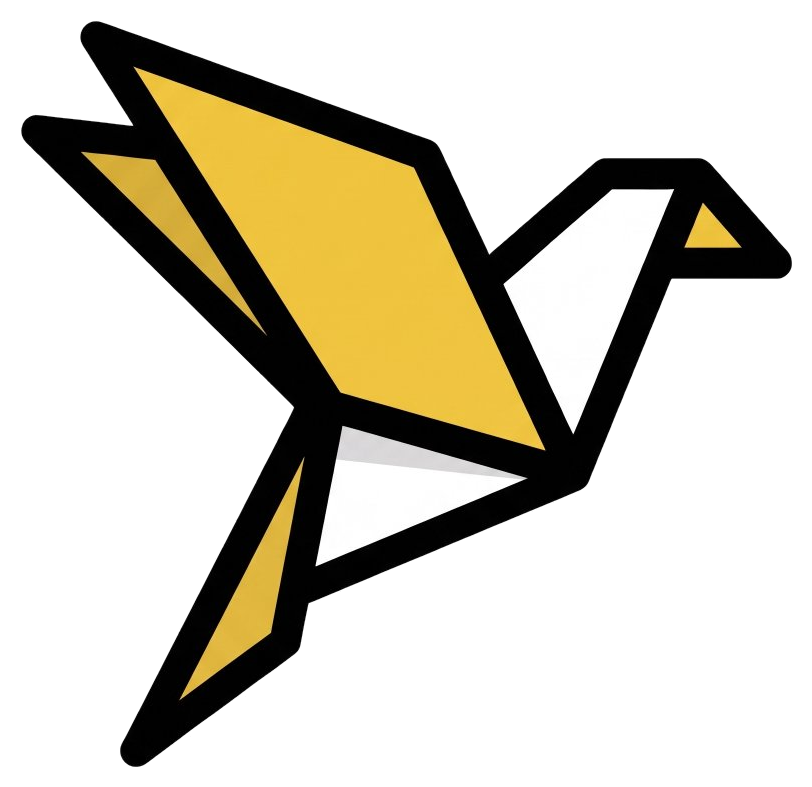
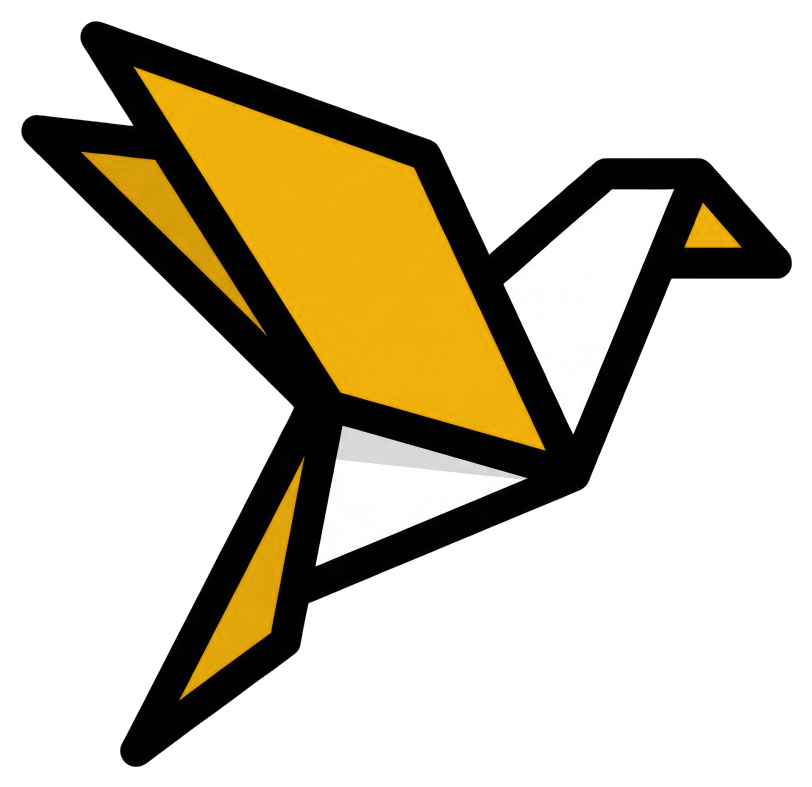
feat(brand): scale bird to span across Auto with belly arched and apply #FFB900 to bird & Reach (v5.18)

Changed region(s): [[0.0924, 0.0915, 0.6773, 0.5794], [0.2155, 0.6099, 0.3695, 0.8844], [0.8313, 0.244, 0.9236, 0.3355]]

diff --git a/frontend/src/components/AutoReachLogo.tsx b/frontend/src/components/AutoReachLogo.tsx
@@ -9,8 +9,8 @@ export interface AutoReachLogoProps {
   onClick?: () => void;
 }
 
-// Warm, high-contrast yellowish-orange (#F58220) for maximum visibility on white & dark surfaces
-export const BIRD_ORANGE_HEX = '#F58220';
+// The exact vibrant warm yellow/orange sampled from the AR background (#FFB900)
+export const BIRD_COLOR_HEX = '#FFB900';
 
 export const AutoReachLogo: React.FC<AutoReachLogoProps> = ({
   size = 'md',
@@ -20,21 +20,23 @@ export const AutoReachLogo: React.FC<AutoReachLogoProps> = ({
   className = '',
   onClick,
 }) => {
-  // Sizing configuration calibrated to the Option 02 tucked lockup
+  // Sizing configuration:
+  // Option 02 layout where the bird is big and spans across the length of 'Auto',
+  // with the tail down-left and the body bending over 'Auto'
   const sizeConfig = {
-    xs: { birdW: 34, birdH: 33, ml: '-ml-[18px]', mb: 'mb-[2px]', textSize: 'text-sm' },
-    sm: { birdW: 46, birdH: 44, ml: '-ml-[24px]', mb: 'mb-[3px]', textSize: 'text-[17px]' },
-    md: { birdW: 60, birdH: 58, ml: '-ml-[31px]', mb: 'mb-[5px]', textSize: 'text-xl' },
-    lg: { birdW: 86, birdH: 83, ml: '-ml-[45px]', mb: 'mb-[7px]', textSize: 'text-3xl' },
-    xl: { birdW: 126, birdH: 122, ml: '-ml-[66px]', mb: 'mb-[10px]', textSize: 'text-5xl' },
+    xs: { birdW: 42, birdH: 40, ml: '-ml-[21px]', mb: 'mb-[1px]', textSize: 'text-xs' },
+    sm: { birdW: 56, birdH: 54, ml: '-ml-[28px]', mb: 'mb-[2px]', textSize: 'text-[17px]' },
+    md: { birdW: 76, birdH: 73, ml: '-ml-[38px]', mb: 'mb-[3px]', textSize: 'text-xl' },
+    lg: { birdW: 110, birdH: 106, ml: '-ml-[55px]', mb: 'mb-[5px]', textSize: 'text-3xl' },
+    xl: { birdW: 154, birdH: 149, ml: '-ml-[77px]', mb: 'mb-[8px]', textSize: 'text-5xl' },
   };
 
   const current = typeof size === 'number'
     ? {
         birdW: size,
         birdH: Math.round(size * 0.97),
-        ml: `-ml-[${Math.round(size * 0.52)}px]`,
-        mb: 'mb-[3px]',
+        ml: `-ml-[${Math.round(size * 0.50)}px]`,
+        mb: 'mb-[2px]',
         textSize: 'text-base',
       }
     : sizeConfig[size] || sizeConfig.sm;
@@ -78,13 +80,14 @@ export const AutoReachLogo: React.FC<AutoReachLogoProps> = ({
   if (variant === 'wordmark') {
     return (
       <span className={`font-black tracking-tight ${current.textSize} ${autoTextColor} ${className}`}>
-        Auto<span style={{ color: BIRD_ORANGE_HEX }}>Reach</span>
+        Auto<span style={{ color: BIRD_COLOR_HEX }}>Reach</span>
       </span>
     );
   }
 
-  // TUCKED LOCKUP (Option 02 layout):
-  // The bird's tail angles down-left, with the letter 'A' in AutoReach tucked directly under the bird's belly
+  // OPTION 02 LOCKUP:
+  // The bird is big and spans across the length of 'Auto',
+  // with the tail down-left and the body bending over 'Auto'
   return (
     <div
       className={`inline-flex items-end select-none ${
@@ -92,7 +95,7 @@ export const AutoReachLogo: React.FC<AutoReachLogoProps> = ({
       } ${className}`}
       onClick={onClick}
     >
-      {/* Origami Bird */}
+      {/* Big Origami Bird spanning over Auto */}
       <img
         src={iconSrc}
         alt="AutoReach Origami Bird"
@@ -101,21 +104,21 @@ export const AutoReachLogo: React.FC<AutoReachLogoProps> = ({
         draggable={false}
       />
 
-      {/* Tucked Wordmark AutoReach */}
+      {/* Wordmark AutoReach nestled under bird */}
       <div
         className={`flex items-center gap-2 whitespace-nowrap z-20 ${current.ml} ${current.mb}`}
       >
         <span className={`font-black tracking-tight leading-none ${current.textSize} ${autoTextColor}`}>
-          Auto<span style={{ color: BIRD_ORANGE_HEX }}>Reach</span>
+          Auto<span style={{ color: BIRD_COLOR_HEX }}>Reach</span>
         </span>
 
         {showBadge && (
           <span
             className="hidden sm:inline-block text-[10px] font-bold px-2 py-0.5 rounded-full border tracking-wide uppercase"
             style={{
-              backgroundColor: 'rgba(245, 130, 32, 0.12)',
-              color: BIRD_ORANGE_HEX,
-              borderColor: 'rgba(245, 130, 32, 0.35)',
+              backgroundColor: 'rgba(255, 185, 0, 0.15)',
+              color: '#D97706',
+              borderColor: 'rgba(255, 185, 0, 0.4)',
             }}
           >
             v5.0 Live
